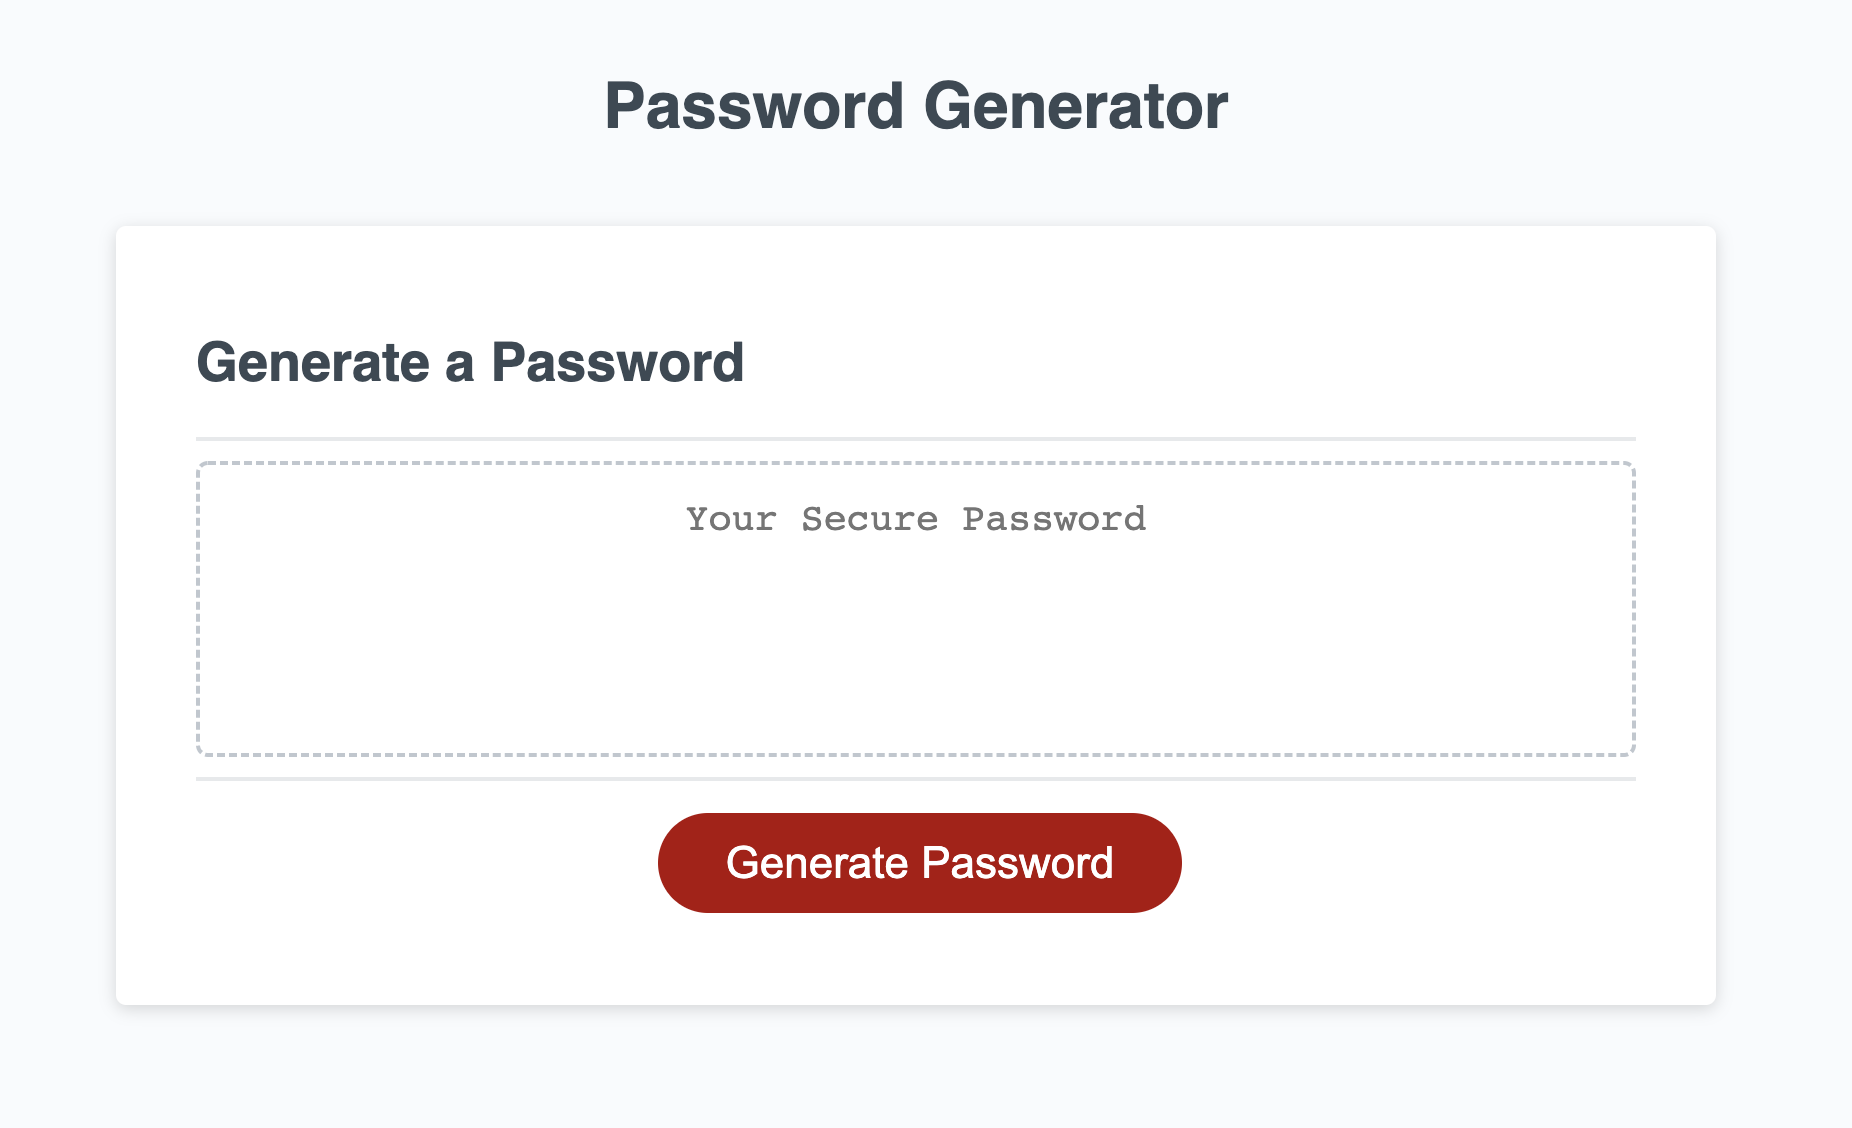
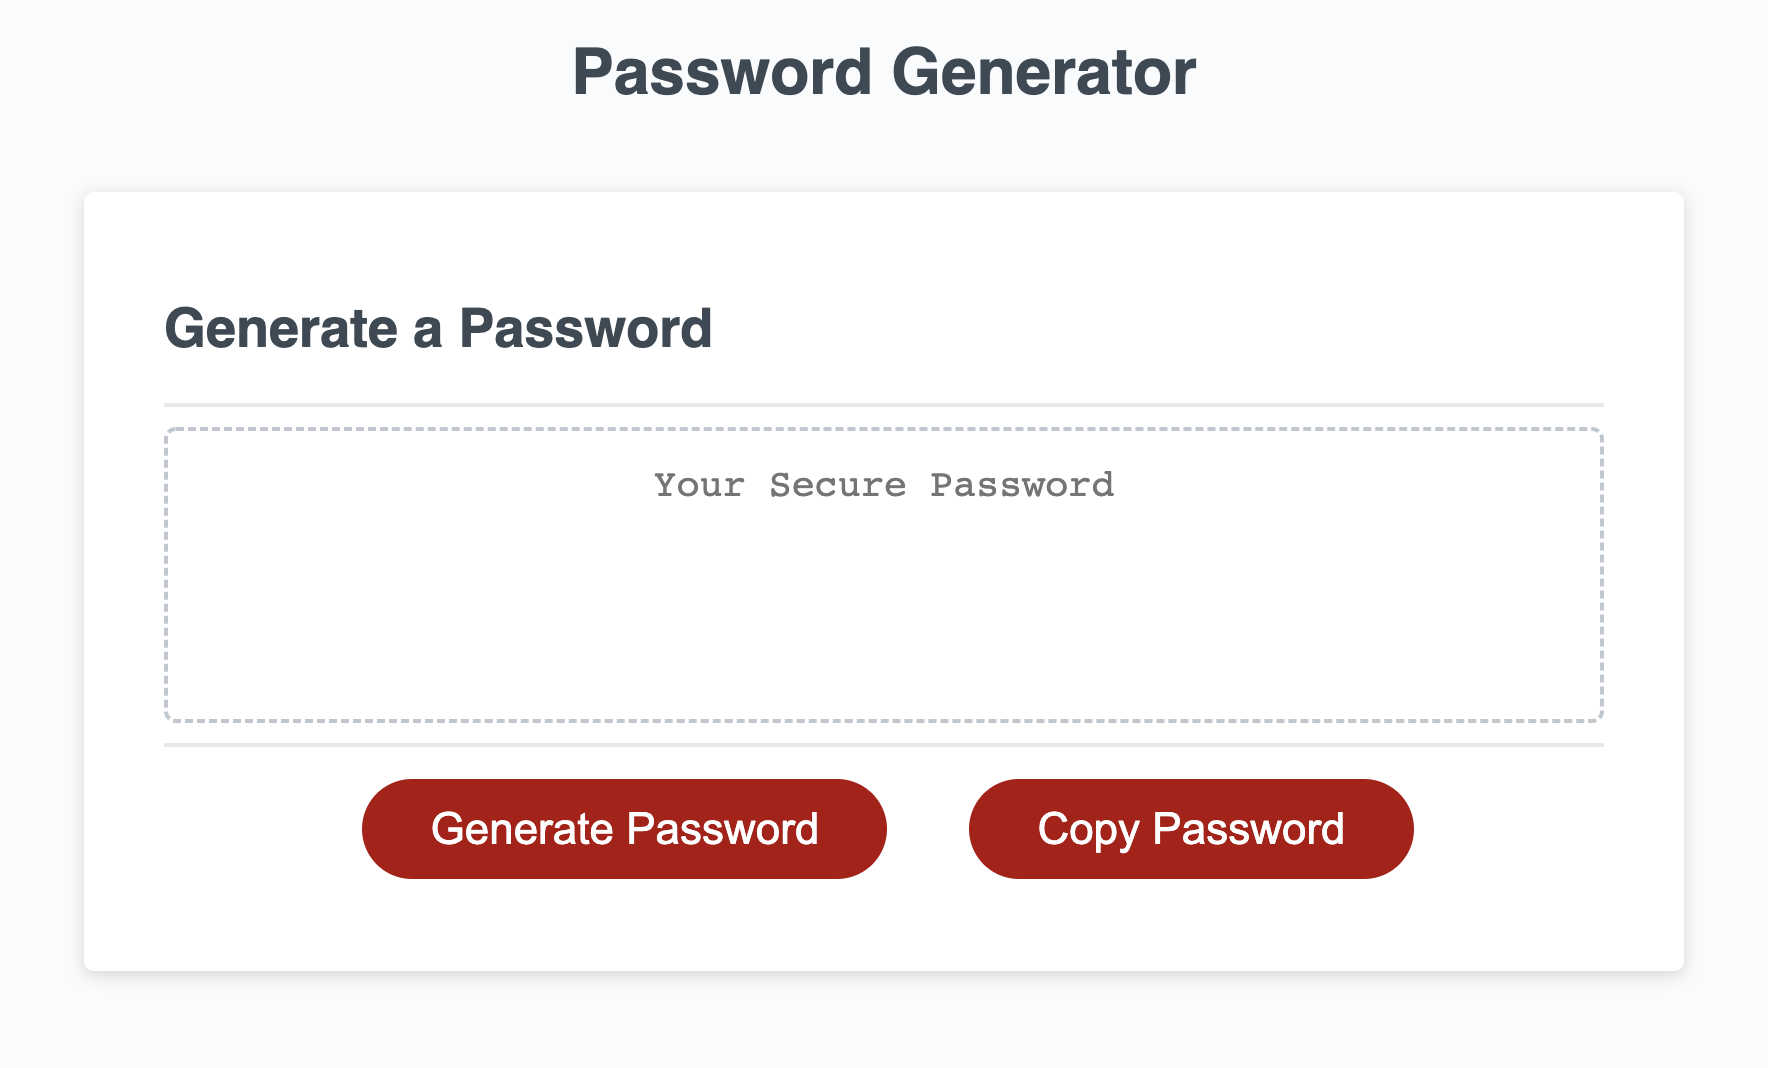
added button to copy password

diff --git a/assets/js/script.js b/assets/js/script.js
@@ -1,10 +1,8 @@
-// Assignment code here
-
-
 // Get references to the #generate element
 var generateBtn = document.querySelector("#generate");
+var copyBtn = document.querySelector("#copy");
 
-//TODO: Add function here
+// Generates Password
 function generatePassword() {
   // Empty string to concatenate randomPassword
   var randomPassword = ""
@@ -26,43 +24,44 @@ function generatePassword() {
   var wantsNumber = window.confirm("Do you want numbers letter in your password?");
   var wantsSpecial = window.confirm("Do you want special characters in your password?");
 
+  // User input validations
+
   if (wantsUpper) {
     randomPassword = randomPassword + upper;
-    console.log(randomPassword)
   }
 
   if (wantsLower) {
       randomPassword = randomPassword + lower;
-      console.log(randomPassword)
   }
 
   if (wantsNumber) {
       randomPassword = randomPassword + numbers;
-      console.log(randomPassword)
   }
 
   if (wantsSpecial) {
       randomPassword = randomPassword + special;
-      console.log(randomPassword)
   }
 
-  if (randomPassword === "") {
-      //return "You did not pick a valid option. Try again."
-      return window.alert("You did not pick a valid option. Try again.");
-      //TODO: Make it prompt user to select again
+  if (randomPassword == "") {
+    window.alert("You did not pick a valid option. Try again.");
+    return "Generate Password Again."
   }
-
+  
   var result = "";
   randomPassword = randomPassword.split('')
-  console.log(randomPassword);
   
   // Creates a random password when looping over randomPassword string
   for (var i=0; i < pwLength; i++) {
-    result = result + randomPassword[Math.floor(Math.random() * randomPassword.length)]; //
-    console.log(result)
+    result = result + randomPassword[Math.floor(Math.random() * randomPassword.length)];
   }
   // Returns randomized password
   return result;
+}
+
+// Copies generated password
+function copyPassword() {
+  var copyText = document.getElementById("password");
+  copyText.select();
 }
 
 // Write password to the #password input
@@ -76,3 +75,4 @@ function writePassword() {
 
 // Add event listener to generate button
 generateBtn.addEventListener("click", writePassword);
+copyBtn.addEventListener("click", copyPassword);

diff --git a/assets/css/style.css b/assets/css/style.css
@@ -88,6 +88,13 @@ header {
   cursor: pointer;
 }
 
+.btn:hover {
+  filter: brightness(107%);
+  border-radius: 25px;
+  transform: scale(1);
+  box-shadow: 0 14px 28px rgba(0, 0, 0, 0.25), 0 10px 10px rgba(0, 0, 0, 0.22);
+}
+
 button[disabled] {
   cursor: default;
   background: #c0c7cf;

diff --git a/index.html b/index.html
@@ -26,6 +26,7 @@
         </div>
         <div class="card-footer">
           <button id="generate" class="btn">Generate Password</button>
+          <button id="copy" class="btn">Copy Password</button>
         </div>
       </div>
     </div>

diff --git a/README.md b/README.md
@@ -1,4 +1,4 @@
-# Password Generator Starter Code
+# Password Generator
 
 The goal for this project is to build a password generator that randomly generates a strong password that meets specific criteria.
 
@@ -37,7 +37,9 @@ View a [live preview](https://leandrib.github.io/password-gen/) of my project.
 
 ## Attributions
 
+* [Starter Code](https://github.com/coding-boot-camp/friendly-parakeet)
 * [Number.isInteger() method](https://www.w3schools.com/jsref/jsref_isinteger.asp)
 * [String to an array](https://stackabuse.com/how-to-convert-a-string-to-an-array-in-javascript/)
-* [Starter Code](https://github.com/coding-boot-camp/friendly-parakeet)
 * [How to use window.prompt](https://developer.mozilla.org/en-US/docs/Web/API/Window/prompt)
+* [While Loop](https://www.w3schools.com/js/js_loop_while.asp)
+* [Copy Button](https://www.w3schools.com/howto/howto_js_copy_clipboard.asp)
